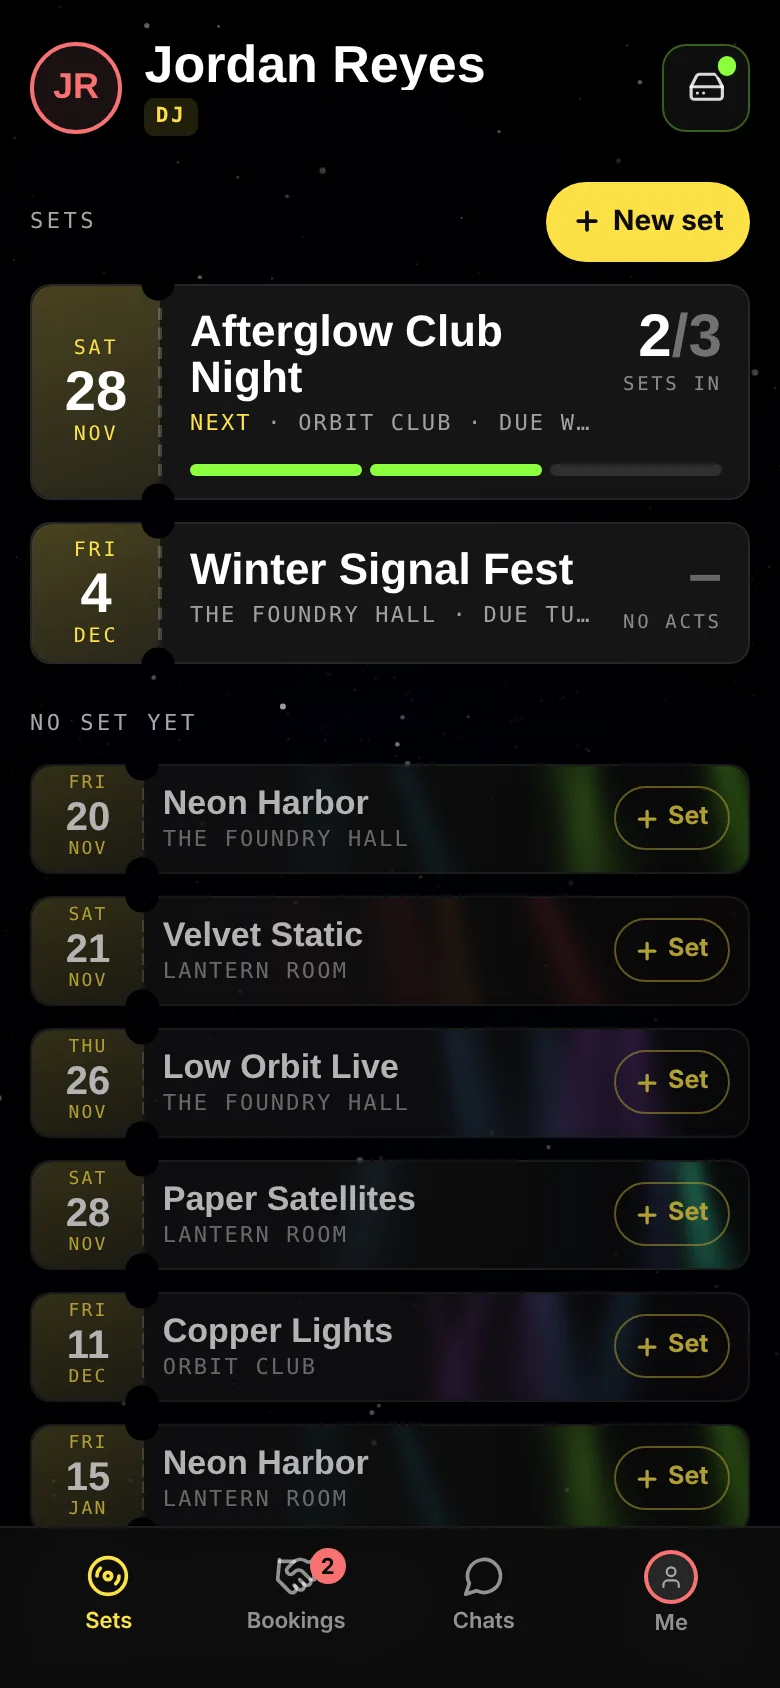
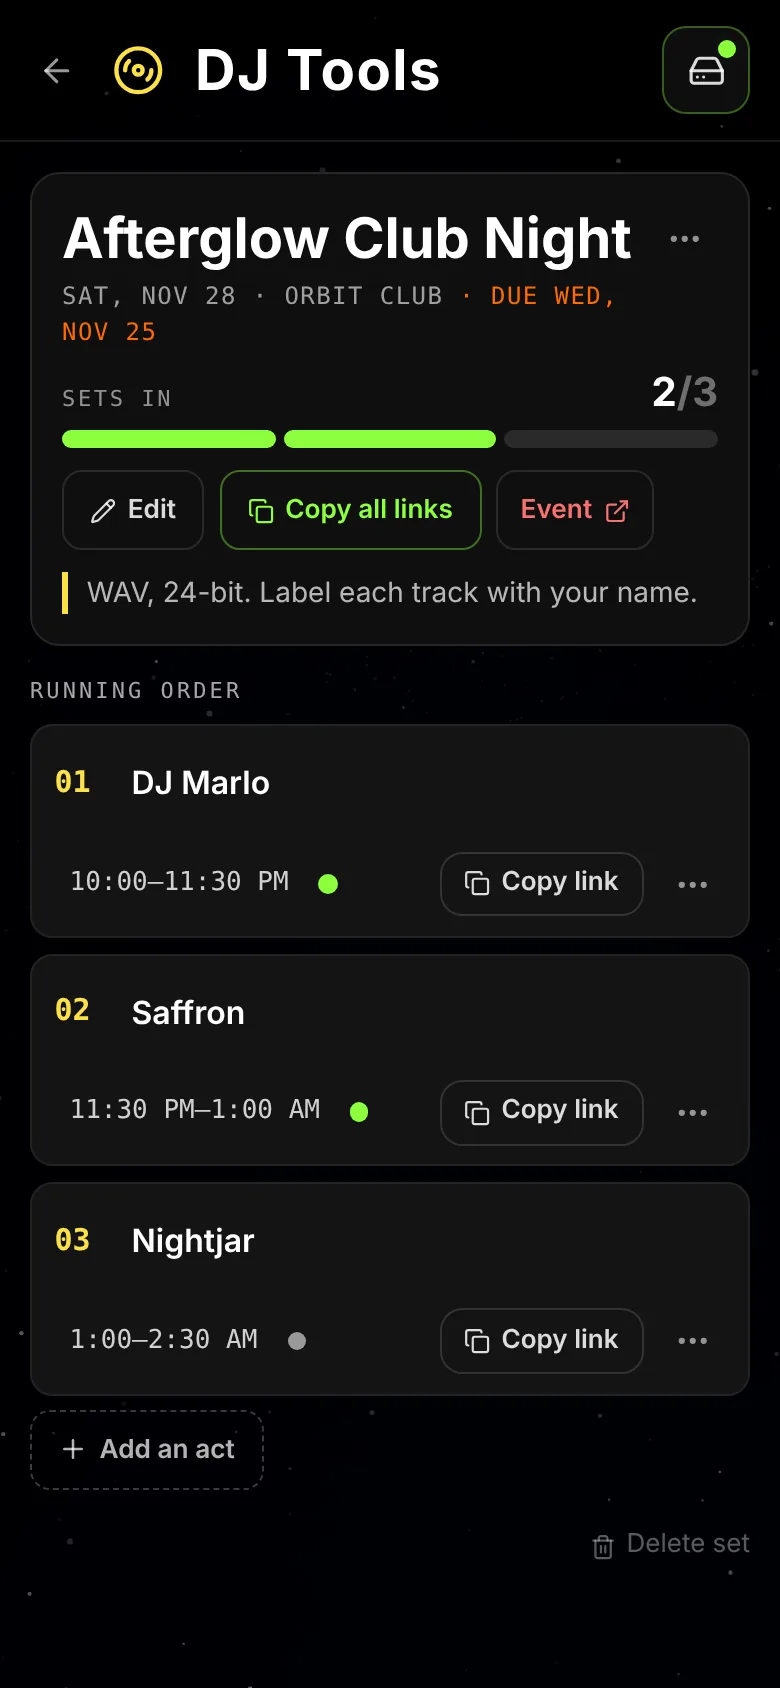
Marketing site tour: Book a date from your template fits its frame and shows the template then the prefilled web; DJ Mode shows sets, a link per act, and the act's upload page (job 376)
- Book a date: two steps, My Templates then Book a date with The act,
  Tech rider and Your contact already ticked. Retaken at a wider window so
  nothing is cut off (also fixes the Templates section card).
- DJ Mode: three steps, the sets (current DJ Mode, after job 372), a set
  with its running order and Copy link for each act, and the page an act
  opens from that link to add their WAVs.

Claude-Session: https://claude.ai/code/session_011F6hS4tKCc4ba8UPZXku15

diff --git a/site/index.html b/site/index.html
@@ -114,10 +114,10 @@
       <div class="tour" data-tour="artist" style="--c:#EF4444" hidden>
         <div class="tour-side">
           <div class="seat"><p class="seat-name">Artist / Mgmt</p><p class="seat-pitch">Book and advance your shows, for one act or many, and send techs what they need. DJs: switch on DJ Mode.</p></div>
-          <div class="tour-list" role="tablist" aria-label="Artist / Mgmt features"><button type="button" role="tab" class="tour-tab" id="t-artist-0" aria-controls="p-artist-0" aria-selected="true"><span class="n">01</span><span class="tt">Your shows as tickets<small>Every show you have coming up, as a ticket, month by month.</small></span><span class="meter"><span></span></span></button><button type="button" role="tab" class="tour-tab" id="t-artist-1" aria-controls="p-artist-1" aria-selected="false" tabindex="-1"><span class="n">02</span><span class="tt">Manage multiple acts<small>Every act you manage in one template. Pick an act to see just its shows.</small></span><span class="meter"><span></span></span></button><button type="button" role="tab" class="tour-tab" id="t-artist-2" aria-controls="p-artist-2" aria-selected="false" tabindex="-1"><span class="n">03</span><span class="tt">Book a date from your template<small>Book a date opens as a web around your act, with your contact and tech rider already filled in from your template.</small></span><span class="meter"><span></span></span></button><button type="button" role="tab" class="tour-tab" id="t-artist-3" aria-controls="p-artist-3" aria-selected="false" tabindex="-1"><span class="n">04</span><span class="tt">Tech rider with your stage plot<small>The stage plot and inputs from your template ride along with every booking.</small></span><span class="meter"><span></span></span></button><button type="button" role="tab" class="tour-tab" id="t-artist-4" aria-controls="p-artist-4" aria-selected="false" tabindex="-1"><span class="n">05</span><span class="tt">One page per event<small>Every profile around the show, and how ready each one is.</small></span><span class="meter"><span></span></span></button><button type="button" role="tab" class="tour-tab" id="t-artist-5" aria-controls="p-artist-5" aria-selected="false" tabindex="-1"><span class="n">06</span><span class="tt">Tasks with due dates<small>Hand out what needs doing, and see who has it and when it&#x27;s due.</small></span><span class="meter"><span></span></span></button><button type="button" role="tab" class="tour-tab" id="t-artist-6" aria-controls="p-artist-6" aria-selected="false" tabindex="-1"><span class="n">07</span><span class="tt">DJ Mode<small>Switch on DJ Mode for a simpler app built around collecting sets: a link for each DJ, and WAVs land in your own Google Drive.</small></span><span class="meter"><span></span></span></button></div>
+          <div class="tour-list" role="tablist" aria-label="Artist / Mgmt features"><button type="button" role="tab" class="tour-tab" id="t-artist-0" aria-controls="p-artist-0" aria-selected="true"><span class="n">01</span><span class="tt">Your shows as tickets<small>Every show you have coming up, as a ticket, month by month.</small></span><span class="meter"><span></span></span></button><button type="button" role="tab" class="tour-tab" id="t-artist-1" aria-controls="p-artist-1" aria-selected="false" tabindex="-1"><span class="n">02</span><span class="tt">Manage multiple acts<small>Every act you manage in one template. Pick an act to see just its shows.</small></span><span class="meter"><span></span></span></button><button type="button" role="tab" class="tour-tab" id="t-artist-2" aria-controls="p-artist-2" aria-selected="false" tabindex="-1"><span class="n">03</span><span class="tt">Book a date from your template<small>Fill in your act once. Book a date opens with your act, contact and tech rider already done, so only the dates and the deal are left.</small></span><span class="meter"><span></span></span></button><button type="button" role="tab" class="tour-tab" id="t-artist-3" aria-controls="p-artist-3" aria-selected="false" tabindex="-1"><span class="n">04</span><span class="tt">Tech rider with your stage plot<small>The stage plot and inputs from your template ride along with every booking.</small></span><span class="meter"><span></span></span></button><button type="button" role="tab" class="tour-tab" id="t-artist-4" aria-controls="p-artist-4" aria-selected="false" tabindex="-1"><span class="n">05</span><span class="tt">One page per event<small>Every profile around the show, and how ready each one is.</small></span><span class="meter"><span></span></span></button><button type="button" role="tab" class="tour-tab" id="t-artist-5" aria-controls="p-artist-5" aria-selected="false" tabindex="-1"><span class="n">06</span><span class="tt">Tasks with due dates<small>Hand out what needs doing, and see who has it and when it&#x27;s due.</small></span><span class="meter"><span></span></span></button><button type="button" role="tab" class="tour-tab" id="t-artist-6" aria-controls="p-artist-6" aria-selected="false" tabindex="-1"><span class="n">07</span><span class="tt">DJ Mode<small>Switch on DJ Mode: each night is a set, each act gets its own link, and their WAVs land in your Google Drive.</small></span><span class="meter"><span></span></span></button></div>
         </div>
         <div class="tour-stage">
-          <div class="slide" role="tabpanel" id="p-artist-0" aria-labelledby="t-artist-0"><div class="v-desk"><figure class="browser" style="--ar:1.600"><div class="browser-bar" aria-hidden="true"><i></i><i></i><i></i><span>showpilot.space</span></div><img src="/shots/mgmt-home.webp" width="1600" height="1000" loading="lazy" alt="The management home: the coming months as tickets, each with its date, venue and fan page, and Needs me on a phone."></figure></div><div class="v-phone"><figure class="phone"><img src="/shots/mgmt-home-phone.webp" width="600" height="1298" loading="lazy" alt="Your shows as tickets on a phone"></figure></div></div><div class="slide" role="tabpanel" id="p-artist-1" aria-labelledby="t-artist-1" hidden><div class="v-desk"><div class="stack" style="--ar:1.587"><figure class="browser step" style="--ar:1.600;left:0.00%;top:0.00%;width:70.42%;z-index:1"><div class="browser-bar" aria-hidden="true"><i></i><i></i><i></i><span>1 · All your acts, one template</span></div><img src="/shots/acts-templates.webp" width="1600" height="1000" loading="lazy" alt="1 · All your acts, one template"></figure><figure class="browser step" style="--ar:1.600;left:29.58%;top:22.35%;width:70.42%;z-index:2"><div class="browser-bar" aria-hidden="true"><i></i><i></i><i></i><span>2 · Pick an act, see its shows</span></div><img src="/shots/acts-calendar.webp" width="1600" height="1000" loading="lazy" alt="My Templates with Your acts: Neon Harbor, Copper Lights and Paper Satellites, then the calendar with Neon Harbor picked."></figure></div></div><div class="v-phone two"><figure class="phone"><img src="/shots/acts-templates-phone.webp" width="600" height="1298" loading="lazy" alt="Manage multiple acts on a phone"></figure><figure class="phone"><img src="/shots/acts-calendar-phone.webp" width="600" height="1298" loading="lazy" alt="Manage multiple acts"></figure></div></div><div class="slide" role="tabpanel" id="p-artist-2" aria-labelledby="t-artist-2" hidden><div class="v-desk"><figure class="browser" style="--ar:1.600"><div class="browser-bar" aria-hidden="true"><i></i><i></i><i></i><span>showpilot.space</span></div><img src="/shots/book-act.webp" width="1600" height="1000" loading="lazy" alt="Book a date as a web around the act: contact and tech rider already done from the template, the rest still to fill in."></figure></div><div class="v-phone"><figure class="phone"><img src="/shots/book-act-phone.webp" width="600" height="1298" loading="lazy" alt="Book a date from your template on a phone"></figure></div></div><div class="slide" role="tabpanel" id="p-artist-3" aria-labelledby="t-artist-3" hidden><div class="v-desk"><figure class="browser" style="--ar:1.600"><div class="browser-bar" aria-hidden="true"><i></i><i></i><i></i><span>showpilot.space</span></div><img src="/shots/book-rider.webp" width="1600" height="1000" loading="lazy" alt="Book a date, Tech rider: the Show Pilot stage plot from My Template, 5 members and 9 inputs."></figure></div><div class="v-phone"><figure class="phone"><img src="/shots/book-rider-phone.webp" width="600" height="1298" loading="lazy" alt="Tech rider with your stage plot on a phone"></figure></div></div><div class="slide" role="tabpanel" id="p-artist-4" aria-labelledby="t-artist-4" hidden><div class="v-desk"><figure class="browser" style="--ar:1.600"><div class="browser-bar" aria-hidden="true"><i></i><i></i><i></i><span>showpilot.space</span></div><img src="/shots/event-web.webp" width="1600" height="1000" loading="lazy" alt="The event web: the event in the middle with Venue, Manager, Artist, Audio and Lights around it, the board and the flight log."></figure></div><div class="v-phone"><figure class="phone"><img src="/shots/event-web-phone.webp" width="600" height="1298" loading="lazy" alt="One page per event on a phone"></figure></div></div><div class="slide" role="tabpanel" id="p-artist-5" aria-labelledby="t-artist-5" hidden><div class="v-desk"><figure class="browser" style="--ar:1.600"><div class="browser-bar" aria-hidden="true"><i></i><i></i><i></i><span>showpilot.space</span></div><img src="/shots/tasks.webp" width="1600" height="1000" loading="lazy" alt="Tasks in a column for each profile, each with a due date and who has claimed it."></figure></div><div class="v-phone"><figure class="phone"><img src="/shots/tasks-phone.webp" width="600" height="1298" loading="lazy" alt="Tasks with due dates on a phone"></figure></div></div><div class="slide" role="tabpanel" id="p-artist-6" aria-labelledby="t-artist-6" hidden><div class="v-desk"><figure class="browser" style="--ar:1.600"><div class="browser-bar" aria-hidden="true"><i></i><i></i><i></i><span>showpilot.space</span></div><img src="/shots/djmode.webp" width="1600" height="1000" loading="lazy" alt="DJ Mode: your sets as tickets, with how many sets are in for the next night and the nights still waiting on a set."></figure></div><div class="v-phone"><figure class="phone"><img src="/shots/djmode-phone.webp" width="600" height="1298" loading="lazy" alt="DJ Mode on a phone"></figure></div></div>
+          <div class="slide" role="tabpanel" id="p-artist-0" aria-labelledby="t-artist-0"><div class="v-desk"><figure class="browser" style="--ar:1.600"><div class="browser-bar" aria-hidden="true"><i></i><i></i><i></i><span>showpilot.space</span></div><img src="/shots/mgmt-home.webp" width="1600" height="1000" loading="lazy" alt="The management home: the coming months as tickets, each with its date, venue and fan page, and Needs me on a phone."></figure></div><div class="v-phone"><figure class="phone"><img src="/shots/mgmt-home-phone.webp" width="600" height="1298" loading="lazy" alt="Your shows as tickets on a phone"></figure></div></div><div class="slide" role="tabpanel" id="p-artist-1" aria-labelledby="t-artist-1" hidden><div class="v-desk"><div class="stack" style="--ar:1.587"><figure class="browser step" style="--ar:1.600;left:0.00%;top:0.00%;width:70.42%;z-index:1"><div class="browser-bar" aria-hidden="true"><i></i><i></i><i></i><span>1 · All your acts, one template</span></div><img src="/shots/acts-templates.webp" width="1600" height="1000" loading="lazy" alt="1 · All your acts, one template"></figure><figure class="browser step" style="--ar:1.600;left:29.58%;top:22.35%;width:70.42%;z-index:2"><div class="browser-bar" aria-hidden="true"><i></i><i></i><i></i><span>2 · Pick an act, see its shows</span></div><img src="/shots/acts-calendar.webp" width="1600" height="1000" loading="lazy" alt="My Templates with Your acts: Neon Harbor, Copper Lights and Paper Satellites, then the calendar with Neon Harbor picked."></figure></div></div><div class="v-phone two"><figure class="phone"><img src="/shots/acts-templates-phone.webp" width="600" height="1298" loading="lazy" alt="Manage multiple acts on a phone"></figure><figure class="phone"><img src="/shots/acts-calendar-phone.webp" width="600" height="1298" loading="lazy" alt="Manage multiple acts"></figure></div></div><div class="slide" role="tabpanel" id="p-artist-2" aria-labelledby="t-artist-2" hidden><div class="v-desk"><div class="stack" style="--ar:1.587"><figure class="browser step" style="--ar:1.600;left:0.00%;top:0.00%;width:70.42%;z-index:1"><div class="browser-bar" aria-hidden="true"><i></i><i></i><i></i><span>1 · Your template, filled in once</span></div><img src="/shots/book-template.webp" width="1600" height="1000" loading="lazy" alt="1 · Your template, filled in once"></figure><figure class="browser step" style="--ar:1.600;left:29.58%;top:22.35%;width:70.42%;z-index:2"><div class="browser-bar" aria-hidden="true"><i></i><i></i><i></i><span>2 · Book a date: already filled in</span></div><img src="/shots/book-act.webp" width="1600" height="1000" loading="lazy" alt="My Templates for Neon Harbor, then Book a date with The act, Tech rider and Your contact already ticked from the template; dates wanted and Send to still needed."></figure></div></div><div class="v-phone two"><figure class="phone"><img src="/shots/book-template-phone.webp" width="600" height="1298" loading="lazy" alt="Book a date from your template on a phone"></figure><figure class="phone"><img src="/shots/book-act-phone.webp" width="600" height="1298" loading="lazy" alt="Book a date from your template"></figure></div></div><div class="slide" role="tabpanel" id="p-artist-3" aria-labelledby="t-artist-3" hidden><div class="v-desk"><figure class="browser" style="--ar:1.600"><div class="browser-bar" aria-hidden="true"><i></i><i></i><i></i><span>showpilot.space</span></div><img src="/shots/book-rider.webp" width="1600" height="1000" loading="lazy" alt="Book a date, Tech rider: the Show Pilot stage plot from My Template, 5 members and 9 inputs."></figure></div><div class="v-phone"><figure class="phone"><img src="/shots/book-rider-phone.webp" width="600" height="1298" loading="lazy" alt="Tech rider with your stage plot on a phone"></figure></div></div><div class="slide" role="tabpanel" id="p-artist-4" aria-labelledby="t-artist-4" hidden><div class="v-desk"><figure class="browser" style="--ar:1.600"><div class="browser-bar" aria-hidden="true"><i></i><i></i><i></i><span>showpilot.space</span></div><img src="/shots/event-web.webp" width="1600" height="1000" loading="lazy" alt="The event web: the event in the middle with Venue, Manager, Artist, Audio and Lights around it, the board and the flight log."></figure></div><div class="v-phone"><figure class="phone"><img src="/shots/event-web-phone.webp" width="600" height="1298" loading="lazy" alt="One page per event on a phone"></figure></div></div><div class="slide" role="tabpanel" id="p-artist-5" aria-labelledby="t-artist-5" hidden><div class="v-desk"><figure class="browser" style="--ar:1.600"><div class="browser-bar" aria-hidden="true"><i></i><i></i><i></i><span>showpilot.space</span></div><img src="/shots/tasks.webp" width="1600" height="1000" loading="lazy" alt="Tasks in a column for each profile, each with a due date and who has claimed it."></figure></div><div class="v-phone"><figure class="phone"><img src="/shots/tasks-phone.webp" width="600" height="1298" loading="lazy" alt="Tasks with due dates on a phone"></figure></div></div><div class="slide" role="tabpanel" id="p-artist-6" aria-labelledby="t-artist-6" hidden><div class="v-desk"><div class="stack" style="--ar:1.546"><figure class="browser step" style="--ar:1.600;left:0.00%;top:0.00%;width:62.50%;z-index:1"><div class="browser-bar" aria-hidden="true"><i></i><i></i><i></i><span>1 · Your sets</span></div><img src="/shots/djmode.webp" width="1600" height="1000" loading="lazy" alt="1 · Your sets"></figure><figure class="browser step" style="--ar:1.600;left:18.75%;top:16.43%;width:62.50%;z-index:2"><div class="browser-bar" aria-hidden="true"><i></i><i></i><i></i><span>2 · A link for each act</span></div><img src="/shots/djmode-set.webp" width="1600" height="1000" loading="lazy" alt="2 · A link for each act"></figure><figure class="browser step" style="--ar:1.600;left:37.50%;top:32.85%;width:62.50%;z-index:3"><div class="browser-bar" aria-hidden="true"><i></i><i></i><i></i><span>3 · The act sends their set</span></div><img src="/shots/djmode-upload.webp" width="1600" height="1000" loading="lazy" alt="DJ Mode: the sets by month, Afterglow Club Night open with its running order and a Copy link for each act, then the page Nightjar opens from that link to add their WAVs in play order."></figure></div></div><div class="v-phone two"><figure class="phone"><img src="/shots/djmode-phone.webp" width="600" height="1298" loading="lazy" alt="DJ Mode on a phone"></figure><figure class="phone"><img src="/shots/djmode-upload-phone.webp" width="600" height="1298" loading="lazy" alt="DJ Mode"></figure></div></div>
           <div class="tour-nav">
             <button type="button" class="round" data-prev aria-label="Previous feature"><svg viewBox="0 0 24 24" aria-hidden="true"><path d="M15 18l-6-6 6-6"/></svg></button>
             <button type="button" class="round" data-play aria-label="Pause the slideshow"><svg class="i-pause" viewBox="0 0 24 24" aria-hidden="true"><path d="M9 6v12M15 6v12"/></svg><svg class="i-play" viewBox="0 0 24 24" aria-hidden="true"><path d="M8 5l11 7-11 7z"/></svg></button>

diff --git a/scripts/build-site-tour.py b/scripts/build-site-tour.py
@@ -19,6 +19,8 @@ SHOT = {  # name -> (width, height)
     # job 374
     'mgmt-home': (1600, 1000), 'mgmt-home-phone': (600, 1298), 'acts-templates': (1600, 1000), 'acts-calendar': (1600, 1000),
     'acts-templates-phone': (600, 1298), 'acts-calendar-phone': (600, 1298), 'djmode': (1600, 1000), 'djmode-phone': (600, 1298),
+    # job 375
+    'book-template': (1600, 1000), 'book-template-phone': (600, 1298), 'djmode-set': (1600, 1000), 'djmode-upload': (1600, 1000), 'djmode-upload-phone': (600, 1298),
 }
 
 # Each feature: key, title, line, desktop shot(s), phone shot(s), alt text.
@@ -32,12 +34,12 @@ F = {
   'rooms': ('Chat rooms', 'A room for everyone on the event, plus one for each profile.', 'rooms', ['rooms-phone'], "The event's General chat room with messages from the manager, venue and engineer."),
   'calendar': ('Calendar', "Every event you're on, with its photo filling the day.", 'calendar', ['calendar-phone'], 'The venue calendar: each event photo filling its day, with Neon Harbor picked and its tasks and run of show beside it.'),
   'dayof': ('Day sheets and PDFs', 'Send a day-of link to door staff or a driver. Each sheet saves as a PDF.', 'dayof-sheet-desk', ['dayof-sheet', 'dayof-contacts'], 'The day-of schedule and the contact sheet, each with Save PDF.'),
-  'book': ('Book a date from your template', 'Book a date opens as a web around your act, with your contact and tech rider already filled in from your template.', 'book-act', ['book-act-phone'], 'Book a date as a web around the act: contact and tech rider already done from the template, the rest still to fill in.'),
+  'book': ('Book a date from your template', 'Fill in your act once. Book a date opens with your act, contact and tech rider already done, so only the dates and the deal are left.', [('book-template', '1 · Your template, filled in once'), ('book-act', '2 · Book a date: already filled in')], ['book-template-phone', 'book-act-phone'], 'My Templates for Neon Harbor, then Book a date with The act, Tech rider and Your contact already ticked from the template; dates wanted and Send to still needed.'),
   'stagetpl': ('Your stage plot, built once', 'Put each member on the stage. Open a line for their inputs: Mic or DI, +48V, and IEM or monitor.', 'stage-plot-open', ['stage-plot-open-phone'], "The stage plot with Marcus Dade's line open: vocals, guitar on a mic, acoustic on a DI with +48V, and a monitor."),
   'rider': ('Tech rider with your stage plot', 'The stage plot and inputs from your template ride along with every booking.', 'book-rider', ['book-rider-phone'], 'Book a date, Tech rider: the Show Pilot stage plot from My Template, 5 members and 9 inputs.'),
   'home': ('Your shows as tickets', 'Every show you have coming up, as a ticket, month by month.', 'mgmt-home', ['mgmt-home-phone'], 'The management home: the coming months as tickets, each with its date, venue and fan page, and Needs me on a phone.'),
   'acts': ('Manage multiple acts', 'Every act you manage in one template. Pick an act to see just its shows.', [('acts-templates', '1 · All your acts, one template'), ('acts-calendar', '2 · Pick an act, see its shows')], ['acts-templates-phone', 'acts-calendar-phone'], 'My Templates with Your acts: Neon Harbor, Copper Lights and Paper Satellites, then the calendar with Neon Harbor picked.'),
-  'djmode': ('DJ Mode', 'Switch on DJ Mode for a simpler app built around collecting sets: a link for each DJ, and WAVs land in your own Google Drive.', 'djmode', ['djmode-phone'], 'DJ Mode: your sets as tickets, with how many sets are in for the next night and the nights still waiting on a set.'),
+  'djmode': ('DJ Mode', 'Switch on DJ Mode: each night is a set, each act gets its own link, and their WAVs land in your Google Drive.', [('djmode', '1 · Your sets'), ('djmode-set', '2 · A link for each act'), ('djmode-upload', '3 · The act sends their set')], ['djmode-phone', 'djmode-upload-phone'], 'DJ Mode: the sets by month, Afterglow Club Night open with its running order and a Copy link for each act, then the page Nightjar opens from that link to add their WAVs in play order.'),
   'console': ('Your shows like a console', 'Every show you work as a strip, with its tasks and status at a glance.', 'console', ['tech-home'], 'The audio console home: the coming week as channel strips, and the home screen on a phone.'),
   'stage': ('The interactive stage plot', "Each act's stage as they built it. Open a member's line for their inputs: Mic or DI, +48V, and IEM or monitor.", 'stage-plot-open', ['stage-plot-open-phone'], "The stage plot with Marcus Dade's line open: vocals, guitar on a mic, acoustic on a DI with +48V, and a monitor."),
   'intake': ('Send intake forms', 'Send an act one link. They fill in their act, members and inputs, and it lands on your event.', [('intake-send', '1 · You make the link'), ('intake-form', '2 · The act fills it in')], ['intake-send-phone', 'intake-form-phone'], "Performer Intake: picking the event and asking for tracks, then the form the act gets from Sam Ortiz with role, artist and set, members and inputs, notes and contact."),
